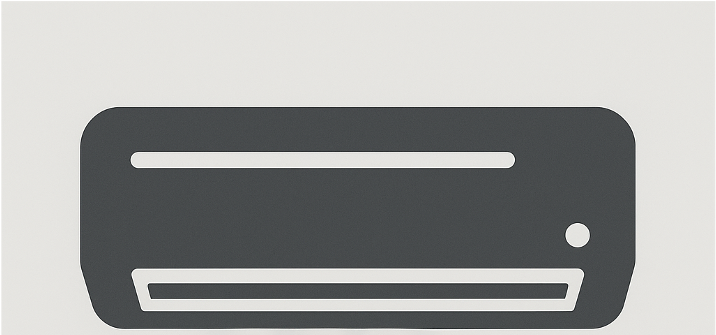
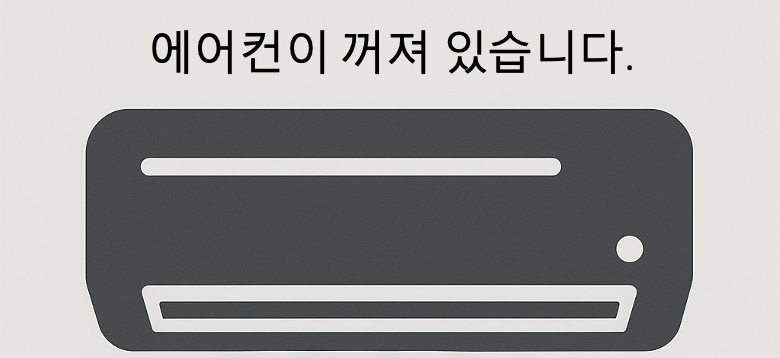
updated 0611

diff --git a/stream.py b/stream.py
@@ -220,6 +220,7 @@ class MetadataThread(threading.Thread):
             # 2) 저장된 JPEG에서 AI 정보 파싱
             self.log(f"스냅샷 저장 완료: {fname}", "INFO")
             objs = get_ai_info(fname, self.log)
+            len(objs)
             # for obj in objs:
             #     print(f"classid={obj['classid']}, conf={obj['confidence']}")
 
@@ -311,13 +312,13 @@ class App:
             self.ai_widget.delete('1.0', tk.END)
             cnt = get_human(objs)
             if cnt>0:
-                for i, obj in enumerate(objs):
-                    line = (
-                        f"[{i}] classid={obj['classid']}, confidence={obj['confidence']} | "
-                        f"x={obj['x']} y={obj['y']} w={obj['w']} h={obj['h']}\n"
-                        f"{WARNING_TEXT['Person']}"
-                    )
-                    self.ai_widget.insert(tk.END, line)
+                line = (
+                    # f"\n[{i}] classid={obj['classid']}, confidence={obj['confidence']} | "
+                    # f"x={obj['x']} y={obj['y']} w={obj['w']} h={obj['h']}\n"
+                    f"{WARNING_TEXT['Person']}"
+                    f"\n현재 이용중인 인원: {cnt}"
+                )
+                self.ai_widget.insert(tk.END, line)
                 self.ai_widget.config(state='disabled')
             else:
                 self.ai_widget.insert(tk.END, WARNING_TEXT["No Person"])
@@ -328,7 +329,7 @@ class App:
     def update_icons(self, text: str, people_count: int):
         try:
             # 사람 수에 따라 이미지 결정
-            if 2 < people_count < 3:
+            if 2 < people_count <= 3:
                 icon_path = os.path.join(
                     BASE_DIR, 
                     "icons",               # 실제 icons 폴더가 stream.py 파일과 같은 폴더에 있다면
@@ -342,13 +343,20 @@ class App:
                     "cooling_medium.png"      # 또는 상대경로에 맞춰 조정
                 )
                 dynamic_msg = "Moderate crowd detected. Cooling adjusted to strong mode (20°C)."
-            else:
+            elif people_count == 1:
                 icon_path = os.path.join(
                     BASE_DIR, 
                     "icons",               # 실제 icons 폴더가 stream.py 파일과 같은 폴더에 있다면
                     "cooling_low.png"      # 또는 상대경로에 맞춰 조정
                 )
                 dynamic_msg = "No more than 10 people were detected. The air conditioner switches to minimum cooling."
+            else:
+                icon_path = os.path.join(
+                    BASE_DIR, 
+                    "icons",               # 실제 icons 폴더가 stream.py 파일과 같은 폴더에 있다면
+                    "cooling_zero.png"      # 또는 상대경로에 맞춰 조정
+                )
+                dynamic_msg = "No one in Classroom."
 
             # 이미지 불러오기 및 표시
             try:
@@ -405,7 +413,7 @@ class App:
         # ② 메타데이터 파싱 스레드
         self.meta_thread = MetadataThread(
             update_callback=lambda objs: self.root.after(0, self.on_metadata, objs),
-            interval=30.0,
+            interval=5.0,
             log_callback=self.log
         )
         self.meta_thread.start()
